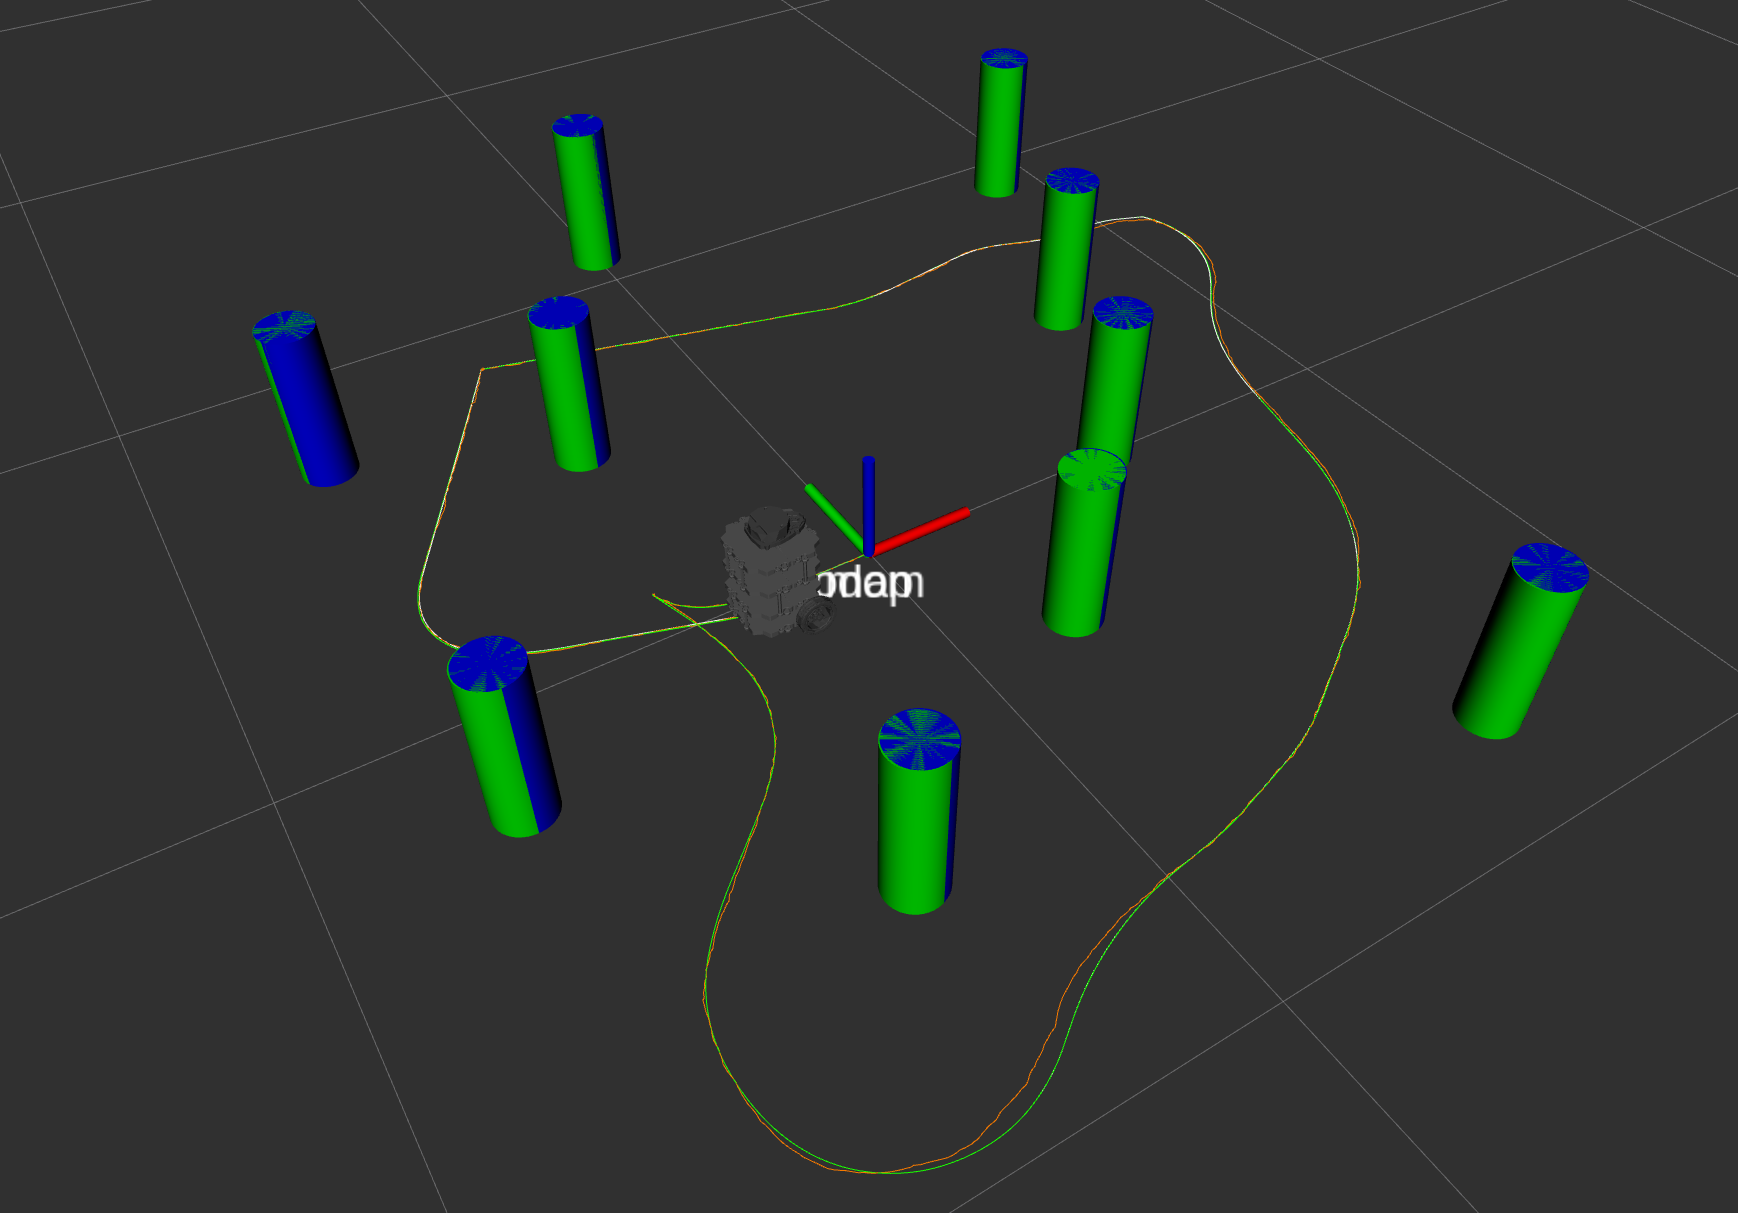
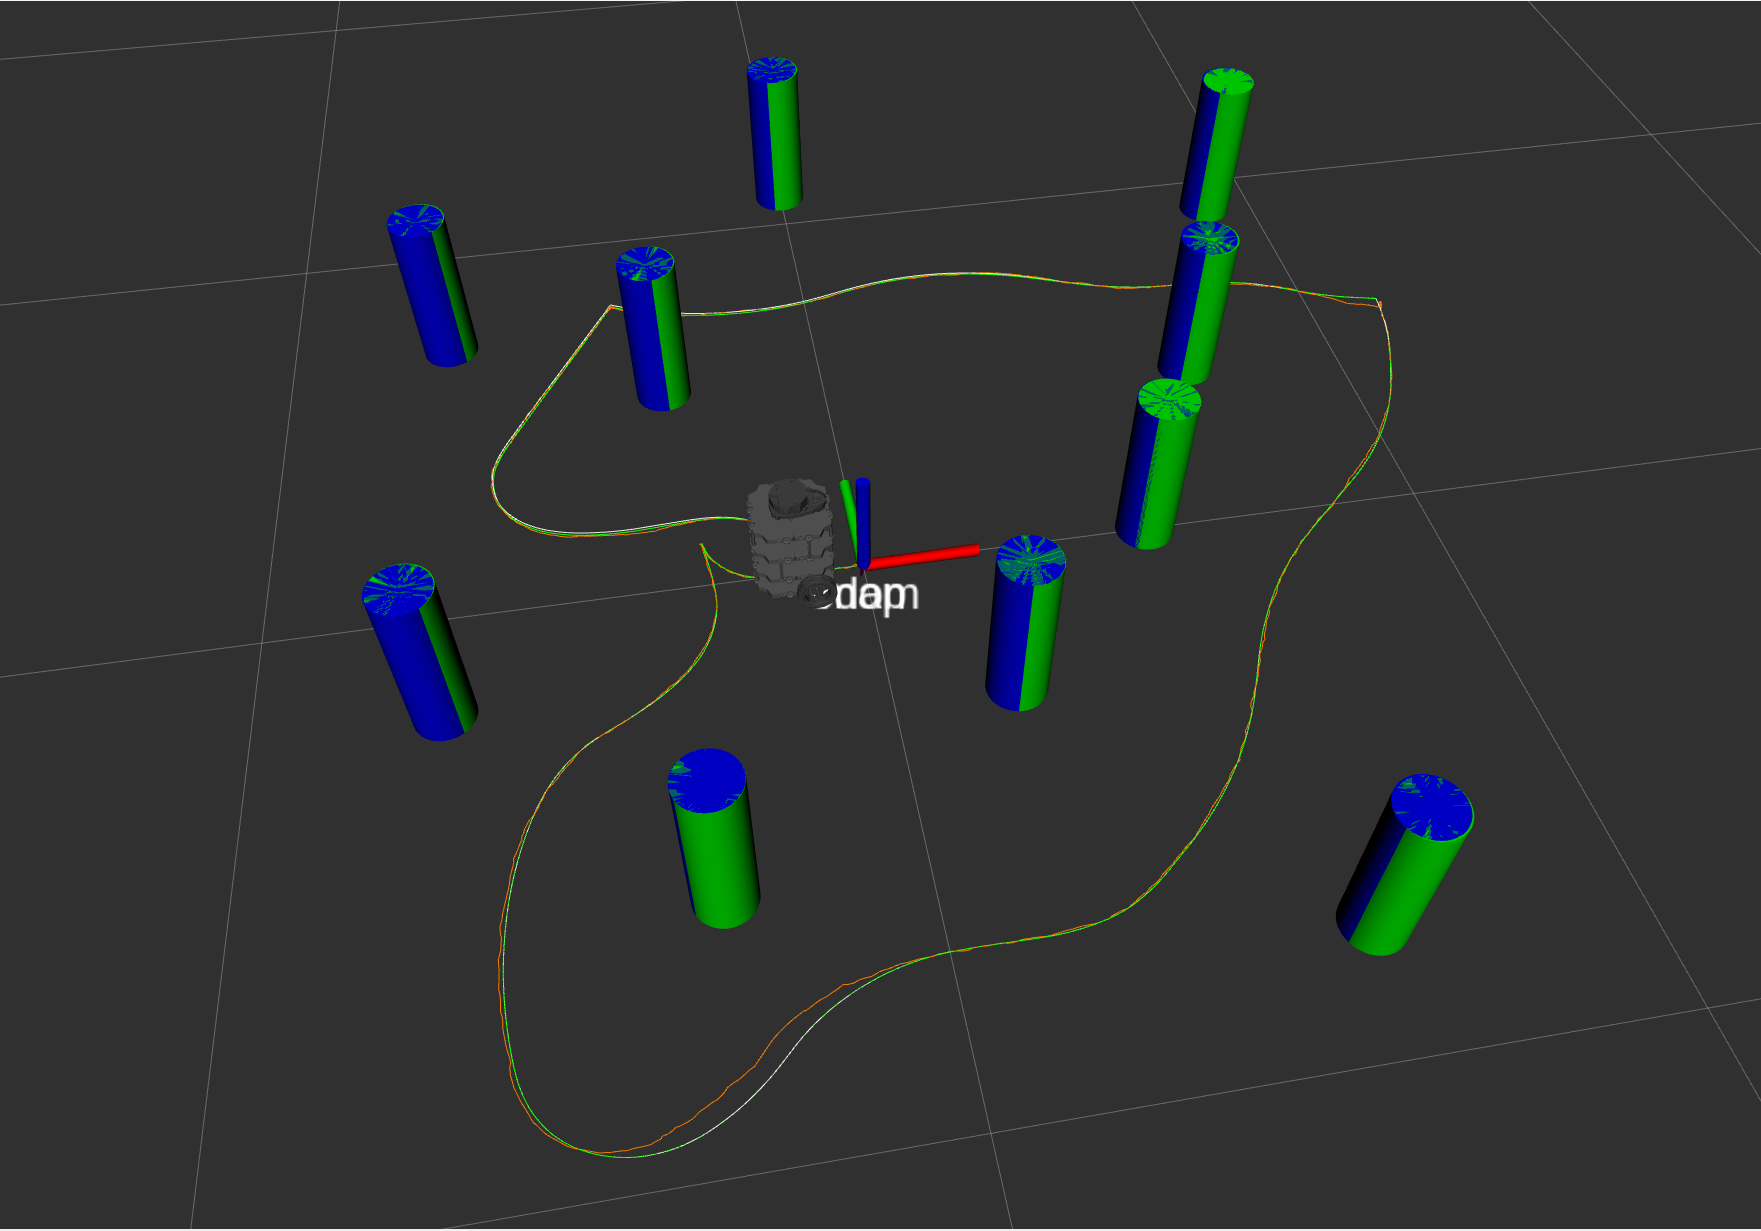
fix odom frame

diff --git a/nuslam/src/slam.cpp b/nuslam/src/slam.cpp
@@ -175,6 +175,14 @@ class Odometer
             return body_twist;
         }
 
+        /// \brief Get the current pose of in odom
+        /// \return current pose of the turtle in odom
+        rigid2d::Transform2D getCurrentPose(){
+            rigid2d::Vector2D trans = {dd.getPosition().x, dd.getPosition().y};
+            rigid2d::Transform2D Tot = rigid2d::Transform2D(trans, dd.getTheta());
+            return Tot;
+        }
+
 
     
 };
@@ -256,11 +264,28 @@ class SLAM
 
             static tf2_ros::TransformBroadcaster map_odom_br;
 
+            //calulcate odom in map
+            rigid2d::Transform2D Tto = odometer.getCurrentPose().inv();
+            rigid2d::Vector2D slam_trans = {slam_agent.getStateX(), slam_agent.getStateY()};
+            rigid2d::Transform2D Tmt_temp = rigid2d::Transform2D(slam_trans, slam_agent.getStateTheta());
+            Tmt_temp*=Tto;
+            rigid2d::Transform2D Tmt = Tmt_temp;
+            tf2::Quaternion odom_ori;
+            odom_ori.setRPY(0,0,Tmt.theta());
+
+
+
             geometry_msgs::TransformStamped map_odom_transform;
             map_odom_transform.header.stamp = ros::Time::now();
             map_odom_transform.header.frame_id = "map";
             map_odom_transform.child_frame_id = odom_frame_id;
-            map_odom_transform.transform.rotation.w = 1.0;
+            map_odom_transform.transform.translation.x = Tmt.x();
+            map_odom_transform.transform.translation.y = Tmt.y();
+            map_odom_transform.transform.rotation.x = odom_ori.x();
+            map_odom_transform.transform.rotation.y = odom_ori.y();
+            map_odom_transform.transform.rotation.z = odom_ori.z();
+
+            map_odom_transform.transform.rotation.w = odom_ori.w();
             map_odom_br.sendTransform(map_odom_transform);
 
         }
@@ -389,9 +414,7 @@ class SLAM
         /// \brief The main control loop state machine
         void main_loop(const ros::TimerEvent &){
 
-            publishFrames();
-            rigid2d::Vector2D vv;
-            rigid2d::Twist2D test_twist;
+            //publishFrames();
 
 
 
@@ -410,7 +433,7 @@ class SLAM
                         sensor_update_flag = false;
                         state_update_flag = true;
                     }
-
+                    publishFrames();
                     publishSLAMPath();
                     publishSLAMLandmark();
 
